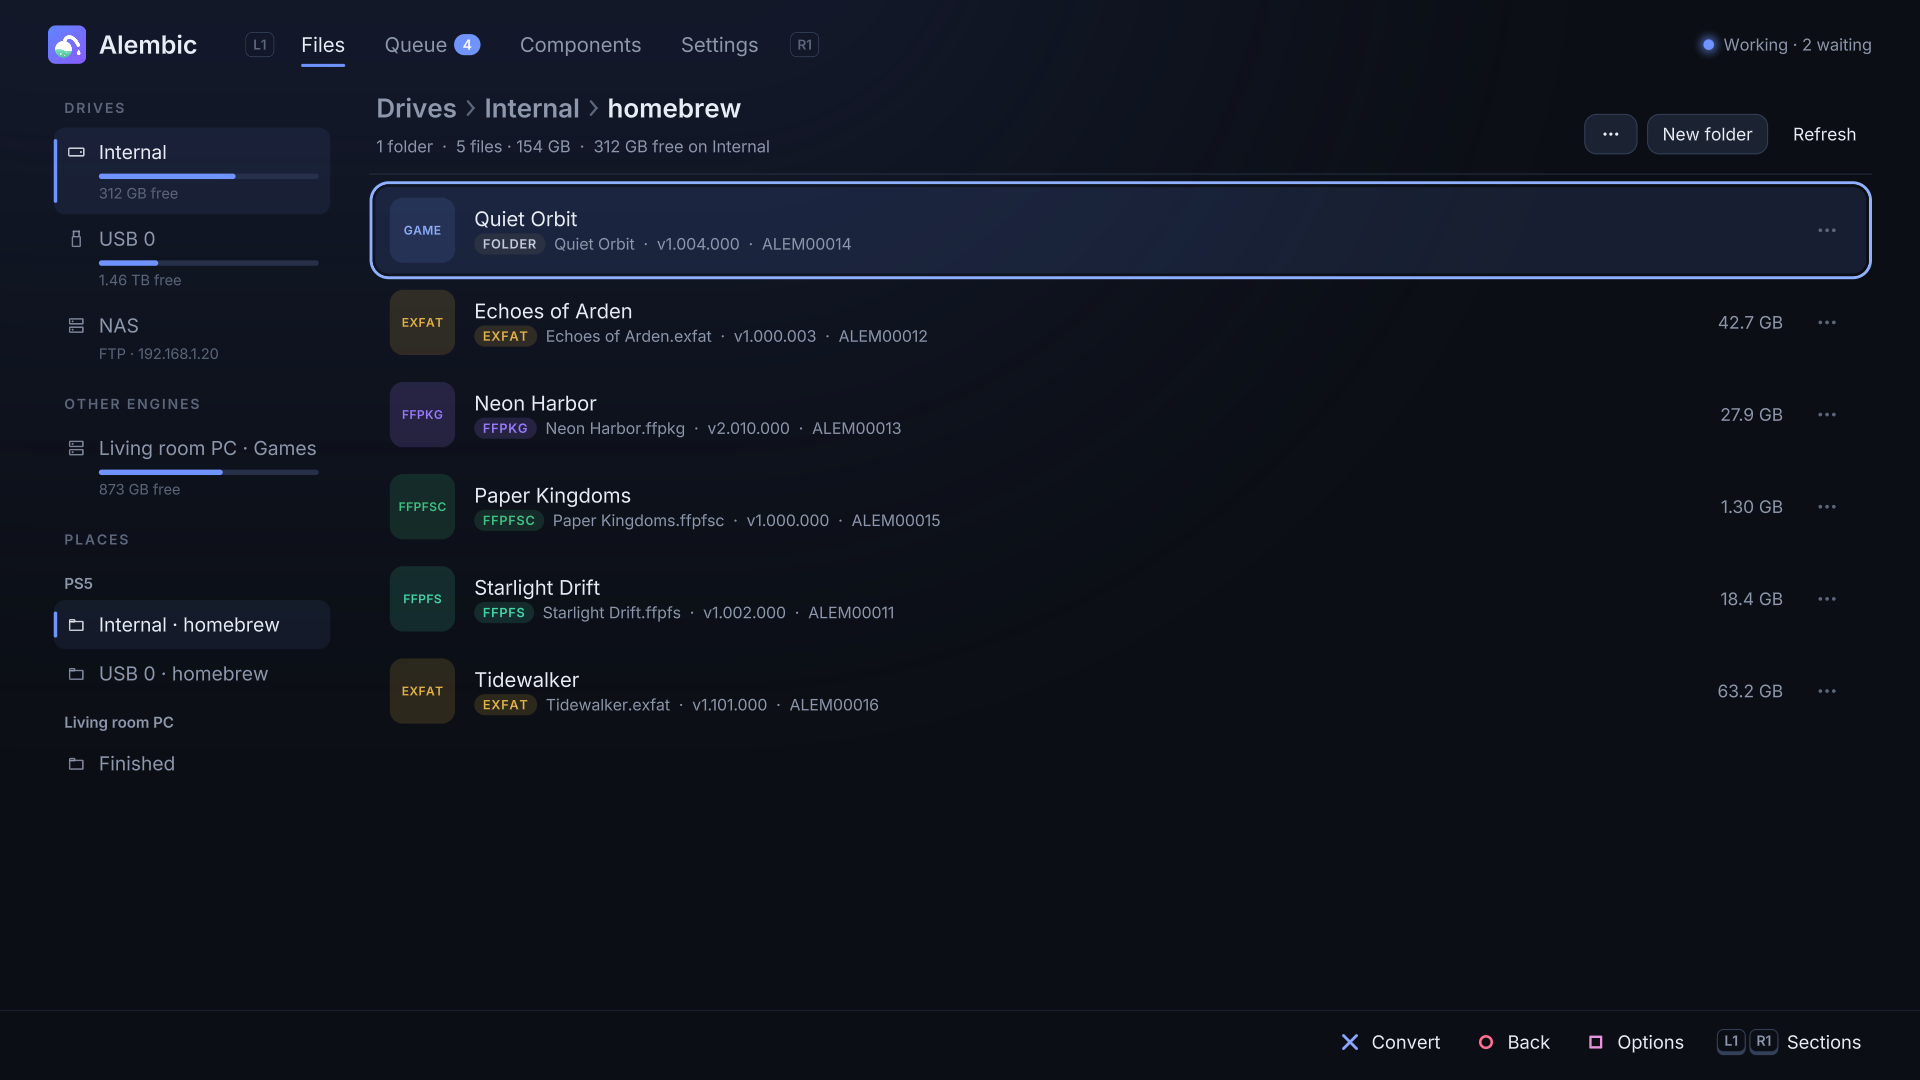
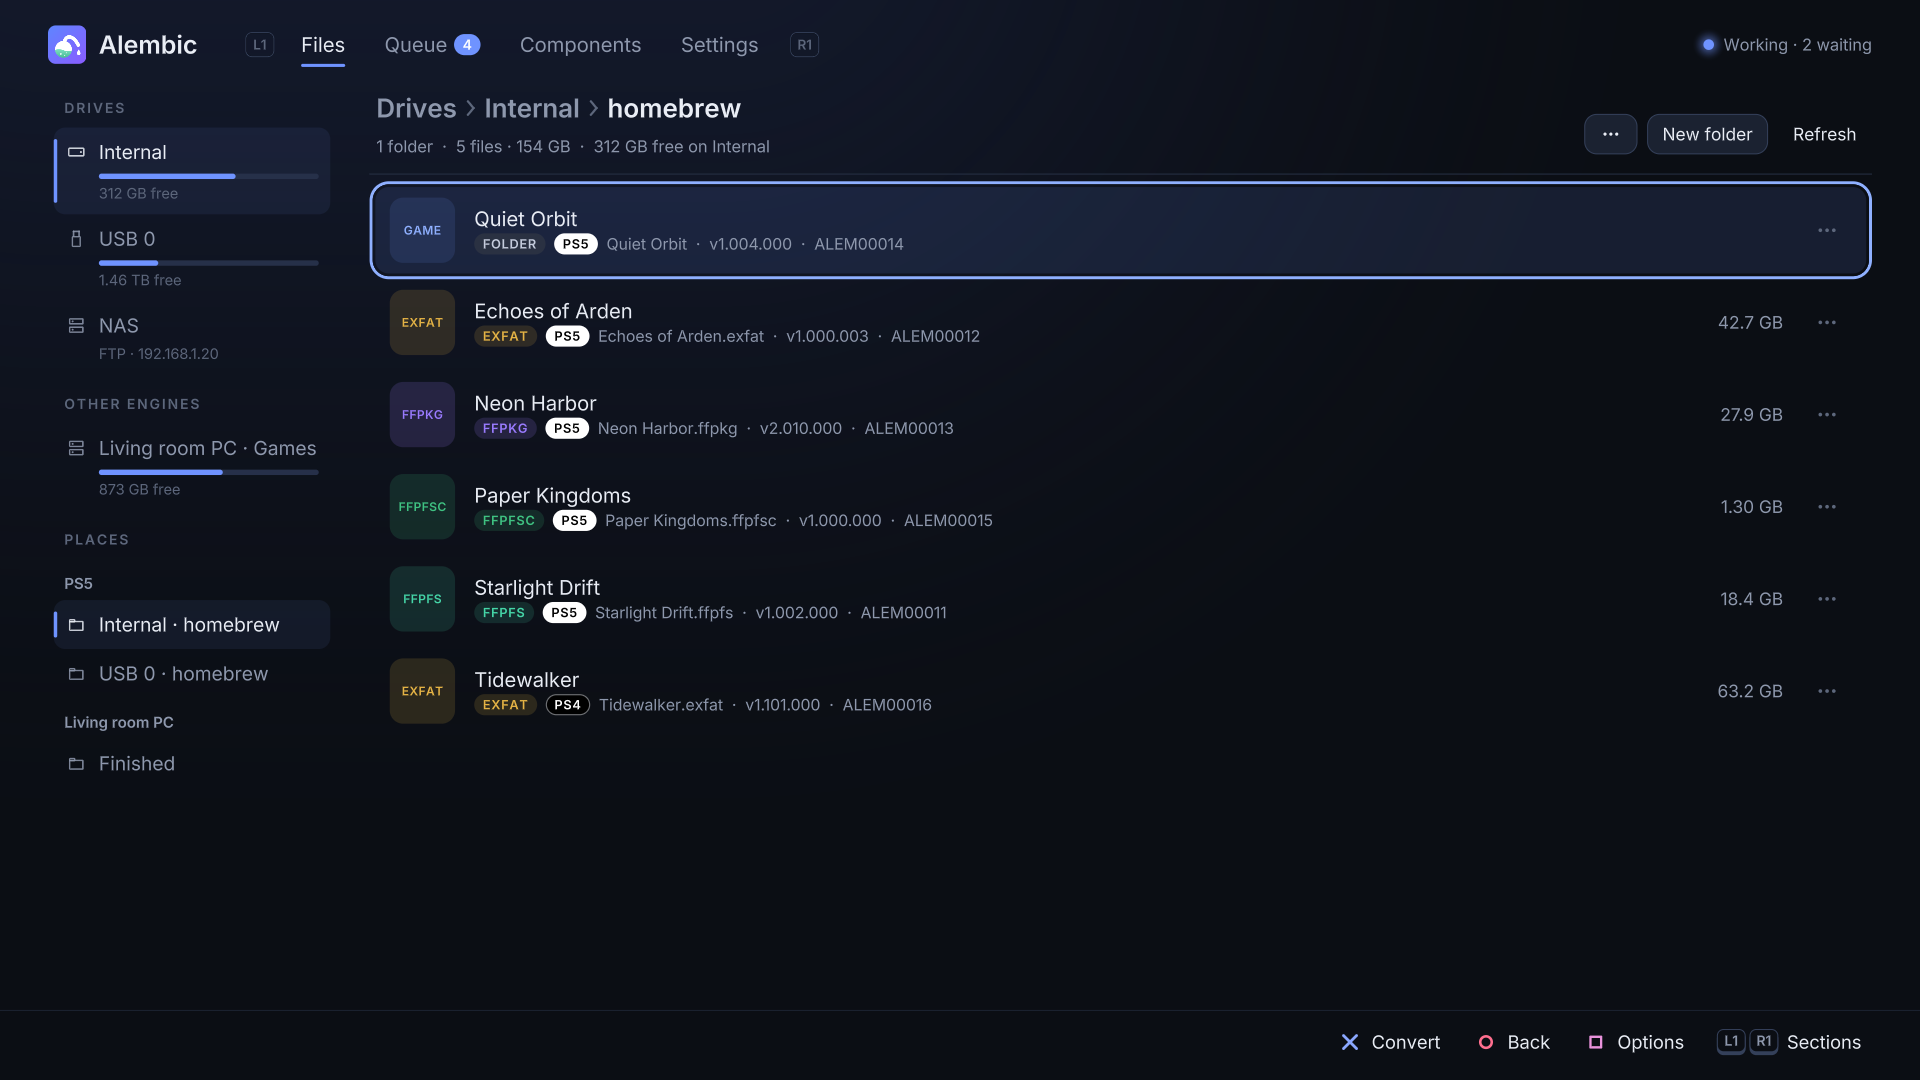
Page and app: a PS4 / PS5 pill on games in the file list and the queue
The engine tells a game's platform in /api/meta (platform: "ps4" from
param.sfo, "ps5" from param.json; cached entries without it are read
again). PS5 is a white pill with black text, PS4 the other way round,
outlined so it shows on the dark rows. Screenshots remade.

diff --git a/src/engine/web/src/pages/queue/JobCard.tsx b/src/engine/web/src/pages/queue/JobCard.tsx
@@ -63,7 +63,7 @@ export function JobCard(props: { j: Job }) {
         <Ico kind={conv ? kind : "folder"} label={KIND_LABEL[kind]} icon={m && m.icon ? iconUrl({ path: m.from, mtime: 0 }) : null} />
         <div style="min-width:0;flex:1">
           <div class="ttl ellip">{m && m.title ? m.title : jt.title}</div>
-          {m ? <div class="s ellip">{sub}</div> : null}
+          {m ? <div class="s ellip">{m.platform ? <span class={"fmt " + m.platform}>{m.platform.toUpperCase()}</span> : null}{sub}</div> : null}
           <div class="to mono ellip">{jt.to}</div>
         </div>
         <span class={"state " + j.state}>{t(j.state)}</span>

diff --git a/src/engine/web/src/styles/icons.css b/src/engine/web/src/styles/icons.css
@@ -17,6 +17,9 @@
 .fmt.exfat { background: rgba(230,180,69,.15); color: var(--warn); }
 .fmt.ffpkg { background: rgba(154,123,255,.16); color: var(--accent2); }
 .fmt.ffpfs { background: rgba(69,214,168,.14); color: #45d6a8; }
+/* PS5: white with black text; PS4 the other way round (outlined, to show on the dark rows). */
+.fmt.ps5 { background: #fff; color: #000; }
+.fmt.ps4 { background: #000; color: #fff; box-shadow: inset 0 0 0 1px rgba(255,255,255,.4); }
 
 .facts { display: grid; grid-template-columns: auto minmax(0, 1fr); font-size: .88rem; }
 .facts > div { padding: .4rem 0; border-top: 1px solid var(--line); }

diff --git a/src/engine/web/src/api/types.ts b/src/engine/web/src/api/types.ts
@@ -100,7 +100,7 @@ export interface Entry {
 
 export interface Listing { path: string; parent: string | null; entries: Entry[]; free?: number; total?: number }
 
-export interface Meta { title: string; title_id: string; content_id: string; version: string; icon: boolean }
+export interface Meta { title: string; title_id: string; content_id: string; version: string; icon: boolean; platform?: string }
 
 export interface Inspect { path: string; format: string; title_id?: string; files: number; bytes: number; lz4_packed: boolean; lz4_profile: string; engine: string }
 

diff --git a/src/engine/web/src/pages/files/FileList.tsx b/src/engine/web/src/pages/files/FileList.tsx
@@ -38,6 +38,7 @@ function Row(props: { e: Entry; top: boolean }) {
         <div class="s ellip">
           {m ? [
             <span class={"fmt " + (e.game ? "folder" : e.kind)}>{e.game ? t("FOLDER") : KIND_LABEL[e.kind] || ""}</span>,
+            m.platform ? <span class={"fmt " + m.platform}>{m.platform.toUpperCase()}</span> : null,
             [m.title ? e.name : "", m.version ? "v" + m.version.replace(/^0+(?=\d)/, "") : "", m.title_id].filter(Boolean).join("  ·  "),
           ] : plain}
         </div>

diff --git a/src/engine/game_meta.cpp b/src/engine/game_meta.cpp
@@ -94,6 +94,7 @@ JsonValue to_json(const GameMeta& m) {
     v.set("content_id", m.content_id);
     v.set("version", m.version);
     v.set("icon", m.has_icon);
+    v.set("platform", m.platform);
     return v;
 }
 
@@ -104,6 +105,7 @@ GameMeta from_json(const JsonValue& v) {
     m.content_id = v["content_id"].str();
     m.version = v["version"].str();
     m.has_icon = v["icon"].boolean();
+    m.platform = v["platform"].str();
     return m;
 }
 
@@ -178,7 +180,8 @@ Status GameMetaCache::load(const std::string& path, const std::string& key) {
     std::string json_path = dir_ + "/" + key + ".json";
     if (auto data = read_file(json_path); data.ok()) {
         auto v = parse_json(std::string(data->begin(), data->end()));
-        if (v.ok()) {
+        // Entries from before 0.3.2 lack the platform: read the game again.
+        if (v.ok() && v->has("platform")) {
             (void)touch_file(json_path); // used now (once per run: it stays in memory)
             std::lock_guard<std::mutex> lock(g_memory_mutex);
             g_memory[key] = from_json(*v);
@@ -194,9 +197,11 @@ Status GameMetaCache::load(const std::string& path, const std::string& key) {
         if (const tree::Node* p = sce_sys_file(root, "param.json")) {
             ALEMBIC_ASSIGN(auto data, read_node(*input.tree, *p, kMaxParam));
             meta = parse_param(std::string(data.begin(), data.end()));
+            meta.platform = "ps5";
         } else if (const tree::Node* s = sce_sys_file(root, "param.sfo")) {
             ALEMBIC_ASSIGN(auto data, read_node(*input.tree, *s, kMaxParam));
             meta = parse_sfo(data);
+            meta.platform = "ps4";
         }
         if (const tree::Node* i = sce_sys_file(root, "icon0.png")) {
             auto data = read_node(*input.tree, *i, kMaxIcon);

diff --git a/app/src/ui/draw.cpp b/app/src/ui/draw.cpp
@@ -255,6 +255,26 @@ float fmt_pill(Ui& ui, std::string_view kind, std::string_view label, float x, f
     return w;
 }
 
+float platform_pill(Ui& ui, std::string_view platform, float x, float cy) {
+    const bool ps5 = platform == "ps5";
+    if (!ps5 && platform != "ps4") return 0;
+    const std::string_view label = ps5 ? "PS5" : "PS4";
+    const float size = 0.66f * R;
+    const float w = measure(ui, Face::semibold, label, size) + size * 0.06f * static_cast<float>(label.size()) + 0.9f * R;
+    const float h = size + 0.44f * R;
+    if (ps5) {
+        ui.list->rounded_rect({x, cy - h * 0.5f, w, h}, h * 0.5f, rgb(0xffffff));
+    } else {
+        // Outlined, so the black pill shows on the dark rows (as the page's inset shadow).
+        const float line = std::max(1.0f, 0.06f * R);
+        ui.list->rounded_rect({x, cy - h * 0.5f, w, h}, h * 0.5f, rgb(0xffffff, 0.4f));
+        ui.list->rounded_rect({x + line, cy - h * 0.5f + line, w - 2 * line, h - 2 * line}, h * 0.5f - line, rgb(0x000000));
+    }
+    text(ui, Face::semibold, label, x + 0.45f * R, baseline(cy, size), size, ps5 ? rgb(0x000000) : rgb(0xffffff), Align::left,
+         size * 0.06f);
+    return w;
+}
+
 float state_pill(Ui& ui, std::string_view state, std::string_view label, float right, float cy) {
     Color fill = rgb(0x232a3a), ink = muted;
     if (state == "running") {

diff --git a/app/src/app/files.cpp b/app/src/app/files.cpp
@@ -392,8 +392,9 @@ void FilesPage::list(Ui& ui, App& app, const Rect& area) {
                                 : top ? app.drive_name(e.path) : (m && !m->title.empty() ? m->title : e.name);
             draw::text_fit(ui, Face::regular, title, text_x, draw::baseline(t_cy, ts), ts, tw, style::text);
             if (m) {
-                const float pw = draw::fmt_pill(ui, e.game ? "folder" : e.kind, e.game ? t("FOLDER") : kind_label(e.kind),
-                                                text_x, s_cy);
+                float pw = draw::fmt_pill(ui, e.game ? "folder" : e.kind, e.game ? t("FOLDER") : kind_label(e.kind),
+                                          text_x, s_cy);
+                if (const float plat = draw::platform_pill(ui, m->platform, text_x + pw + 0.45f * R, s_cy)) pw += 0.45f * R + plat;
                 std::vector<std::string> bits;
                 if (!m->title.empty()) bits.push_back(e.name);
                 if (!m->version.empty()) bits.push_back("v" + version_text(m->version));

diff --git a/app/src/ui/draw.hpp b/app/src/ui/draw.hpp
@@ -46,6 +46,9 @@ void ico(Ui& ui, const Rect& box, std::string_view kind, std::string_view label,
 void kind_colors(std::string_view kind, Color* fill, Color* ink);
 // "EXFAT" pill; returns its width.
 float fmt_pill(Ui& ui, std::string_view kind, std::string_view label, float x, float cy);
+// "PS5" (white, black text) or "PS4" (black, white text, outlined) pill
+// starting at x; returns its width (0 for any other platform).
+float platform_pill(Ui& ui, std::string_view platform, float x, float cy);
 // "RUNNING" pill ending at right; returns its width.
 float state_pill(Ui& ui, std::string_view state, std::string_view label, float right, float cy);
 // "ffpfsc" outlined tag ending at right; returns its width.

diff --git a/app/src/app/queue.cpp b/app/src/app/queue.cpp
@@ -178,7 +178,9 @@ float card(Ui& ui, App& app, const JsonValue& j, float x, float y, float w) {
         ty += ts * 1.45f;
         if (m) {
             const std::string sub = join({base(input), m->version.empty() ? "" : "v" + version_text(m->version), m->title_id});
-            draw::text_fit(ui, Face::regular, sub, tx, draw::baseline(ty + ss * 0.725f, ss), ss, tw,
+            float px = draw::platform_pill(ui, m->platform, tx, ty + ss * 0.725f);
+            if (px) px += 0.45f * R;
+            draw::text_fit(ui, Face::regular, sub, tx + px, draw::baseline(ty + ss * 0.725f, ss), ss, tw - px,
                            style::text.with_alpha(0.8f));
             ty += ss * 1.45f;
         }

diff --git a/app/src/app/app.cpp b/app/src/app/app.cpp
@@ -473,6 +473,7 @@ void App::pump_meta() {
                     slot.meta.title_id = r.json["title_id"].str();
                     slot.meta.content_id = r.json["content_id"].str();
                     slot.meta.version = r.json["version"].str();
+                    slot.meta.platform = r.json["platform"].str();
                     slot.meta.icon = r.json["icon"].boolean();
                 }
                 pump_meta();

diff --git a/src/engine/main.cpp b/src/engine/main.cpp
@@ -1529,6 +1529,7 @@ private:
         v.set("content_id", m->content_id);
         v.set("version", m->version);
         v.set("icon", m->has_icon);
+        v.set("platform", m->platform); // "ps4", "ps5" or "" (0.3.2)
         return json(200, v);
     }
 

diff --git a/src/engine/game_meta.hpp b/src/engine/game_meta.hpp
@@ -18,6 +18,7 @@ struct GameMeta {
     std::string title_id;
     std::string content_id;
     std::string version;    // contentVersion
+    std::string platform;   // "ps5" (param.json), "ps4" (param.sfo) or "" (neither)
     bool has_icon = false;
 };
 
